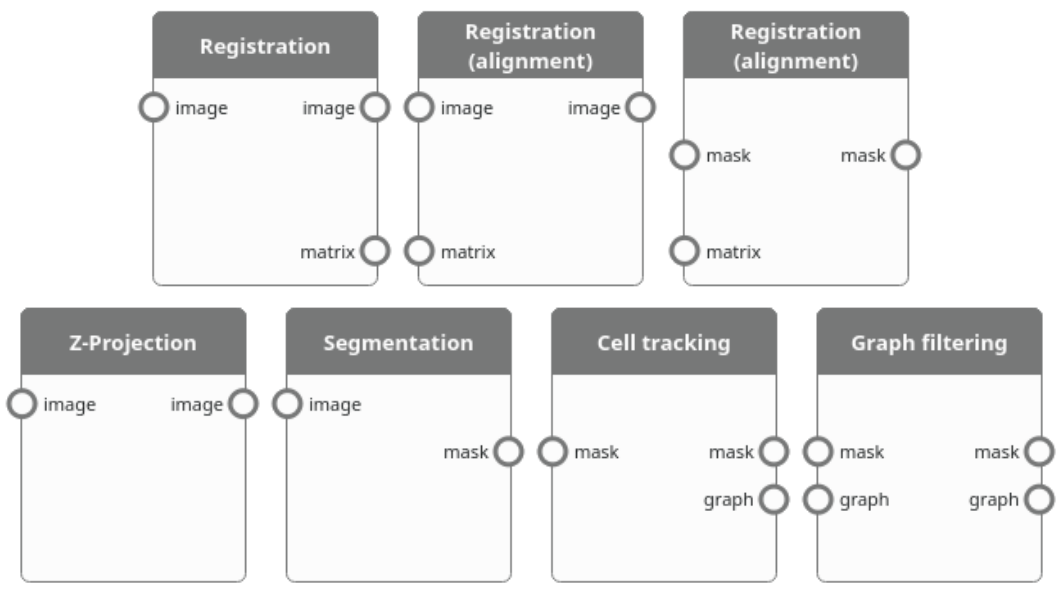
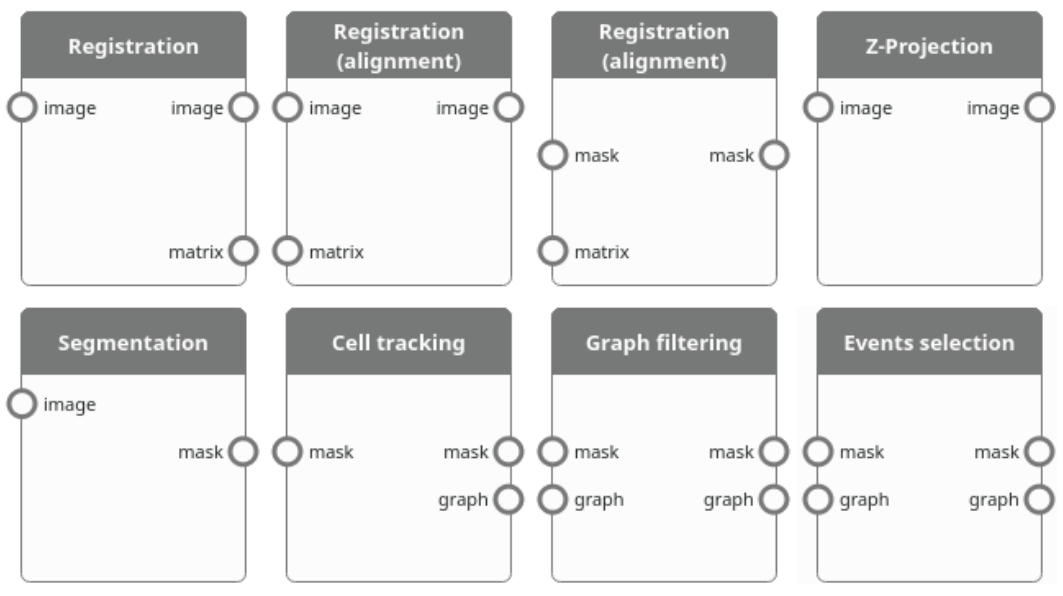
adapt documentation of pipeline module to the addition of events selection module

diff --git a/doc/docs/pipeline_module/reference.md b/doc/docs/pipeline_module/reference.md
@@ -12,7 +12,7 @@ With the pipeline module, the main modules can be combined to create a linear pi
 To create a pipeline, click on the <kbd>+</kbd> button (Figure 1A) to open the list of available modules (Figure 1B), then drag and drop chosen modules (Figure 1C) to the pipeline's list of modules (Figure 1D).
 Each module requires a specific set of input files types (annotated circles on the left) and generates a set of output files (annotated circles on the right).
 When dropping a module, all its input file types must be available from the previous module's output file types. In addition, at most one registration module can be added to the module.
-For example (Figure 2), the "Segmentation" module can be placed after the "Registration" module, the "Registration (alignment)" module (with image output) or the "Z-Projection" module all these modules generate an image file type which is required as input for the "Registration" module. However, the "Segmentation" module cannot be placed after "Registration (alignment)" module (with mask output), the "Segmentation" module, the "Cell tracking" module or the "Graph filtering" module since none of these modules generate the required image file type.
+For example (Figure 2), the "Segmentation" module can be placed after the "Registration" module, the "Registration (alignment)" module (with image output) or the "Z-Projection" module all these modules generate an image file type which is required as input for the "Registration" module. However, the "Segmentation" module cannot be placed after "Registration (alignment)" module (with mask output), the "Segmentation" module, the "Cell tracking" module, the "Graph filtering" module or the "Events selection" module since none of these modules generate the required image file type.
 
 <figure>
 <img src="images/pipeline_2.png" alt="Available modules"/>
